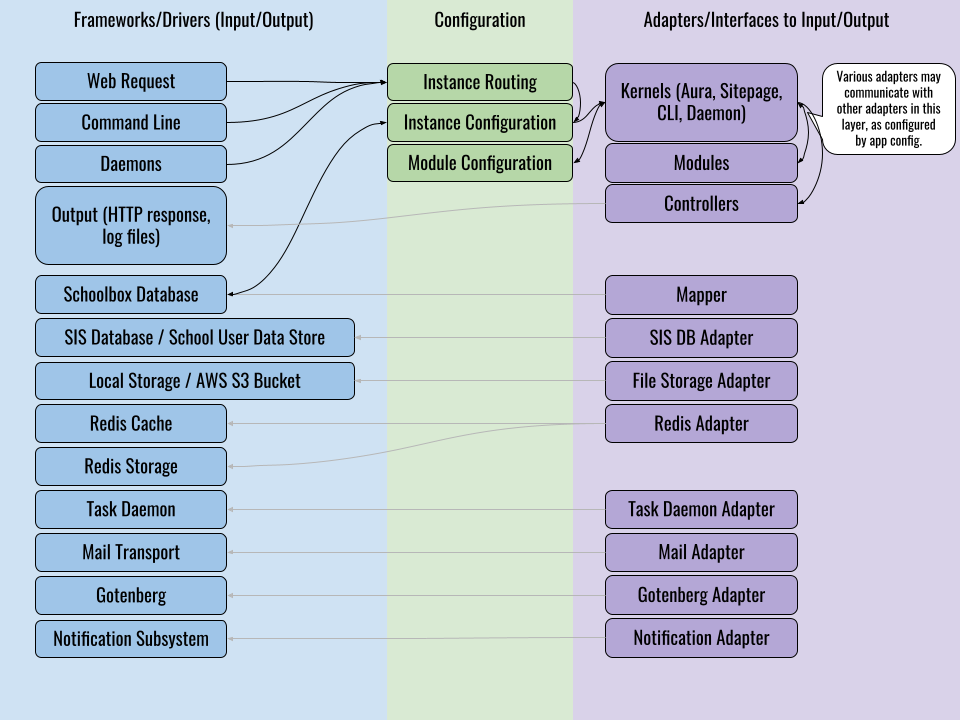
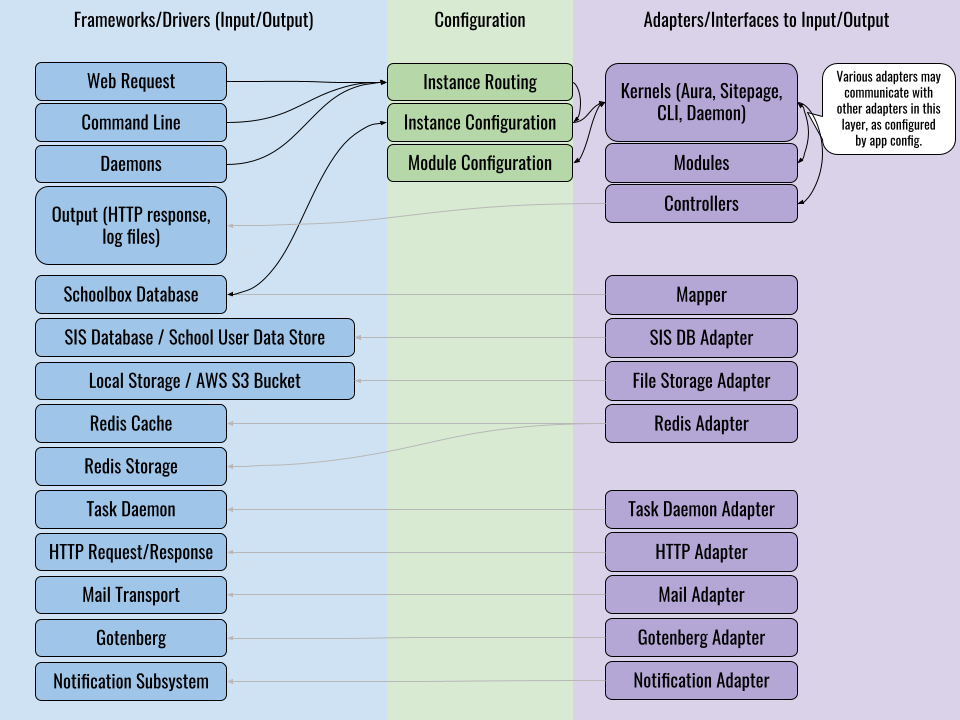
Talk about HTTP requests [SA-14691]

Changed region(s): [[0.0312, 0.7333, 0.25, 0.9778], [0.625, 0.7333, 0.8438, 0.9778]]

diff --git a/docs/architecture/adapters/http.md b/docs/architecture/adapters/http.md
@@ -1,0 +1,25 @@
+# HTTP Adapter
+
+HTTP requests from Schoolbox are sent using its adapter, which abstracts around
+the configuration required to make HTTP connections to external servers (e.g.
+configuration of proxy servers).
+
+The adapter uses the [Guzzle](https://docs.guzzlephp.org/en/stable/) PHP HTTP
+client.
+
+## Instantiation
+
+```php
+/** @var \Psr\Container\ContainerInterface $di */
+
+/** @var \GuzzleHttp\Client $httpClient */
+$httpClient = $di->get('httpClient');
+```
+
+## Usage
+
+```php
+/** @var \GuzzleHttp\Client $httpClient */
+$response     = $httpClient->get($url);
+$responseBody = $response->getBody();
+```

diff --git a/docs/architecture/README.md b/docs/architecture/README.md
@@ -56,6 +56,7 @@ bootstrapped, routed and processed:
 * [Redis Cache](io/redis-cache.md)
 * [Redis Storage](io/redis-storage.md)
 * [Task Daemon](io/task-daemon.md)
+* [HTTP Request/Response](io/http-request-response.md)
 * [Mail Transport](io/mail-transport.md)
 * [PDF Generator](io/pdf-generator.md)
 * [Notification Subsystem](io/notification-subsystem.md)
